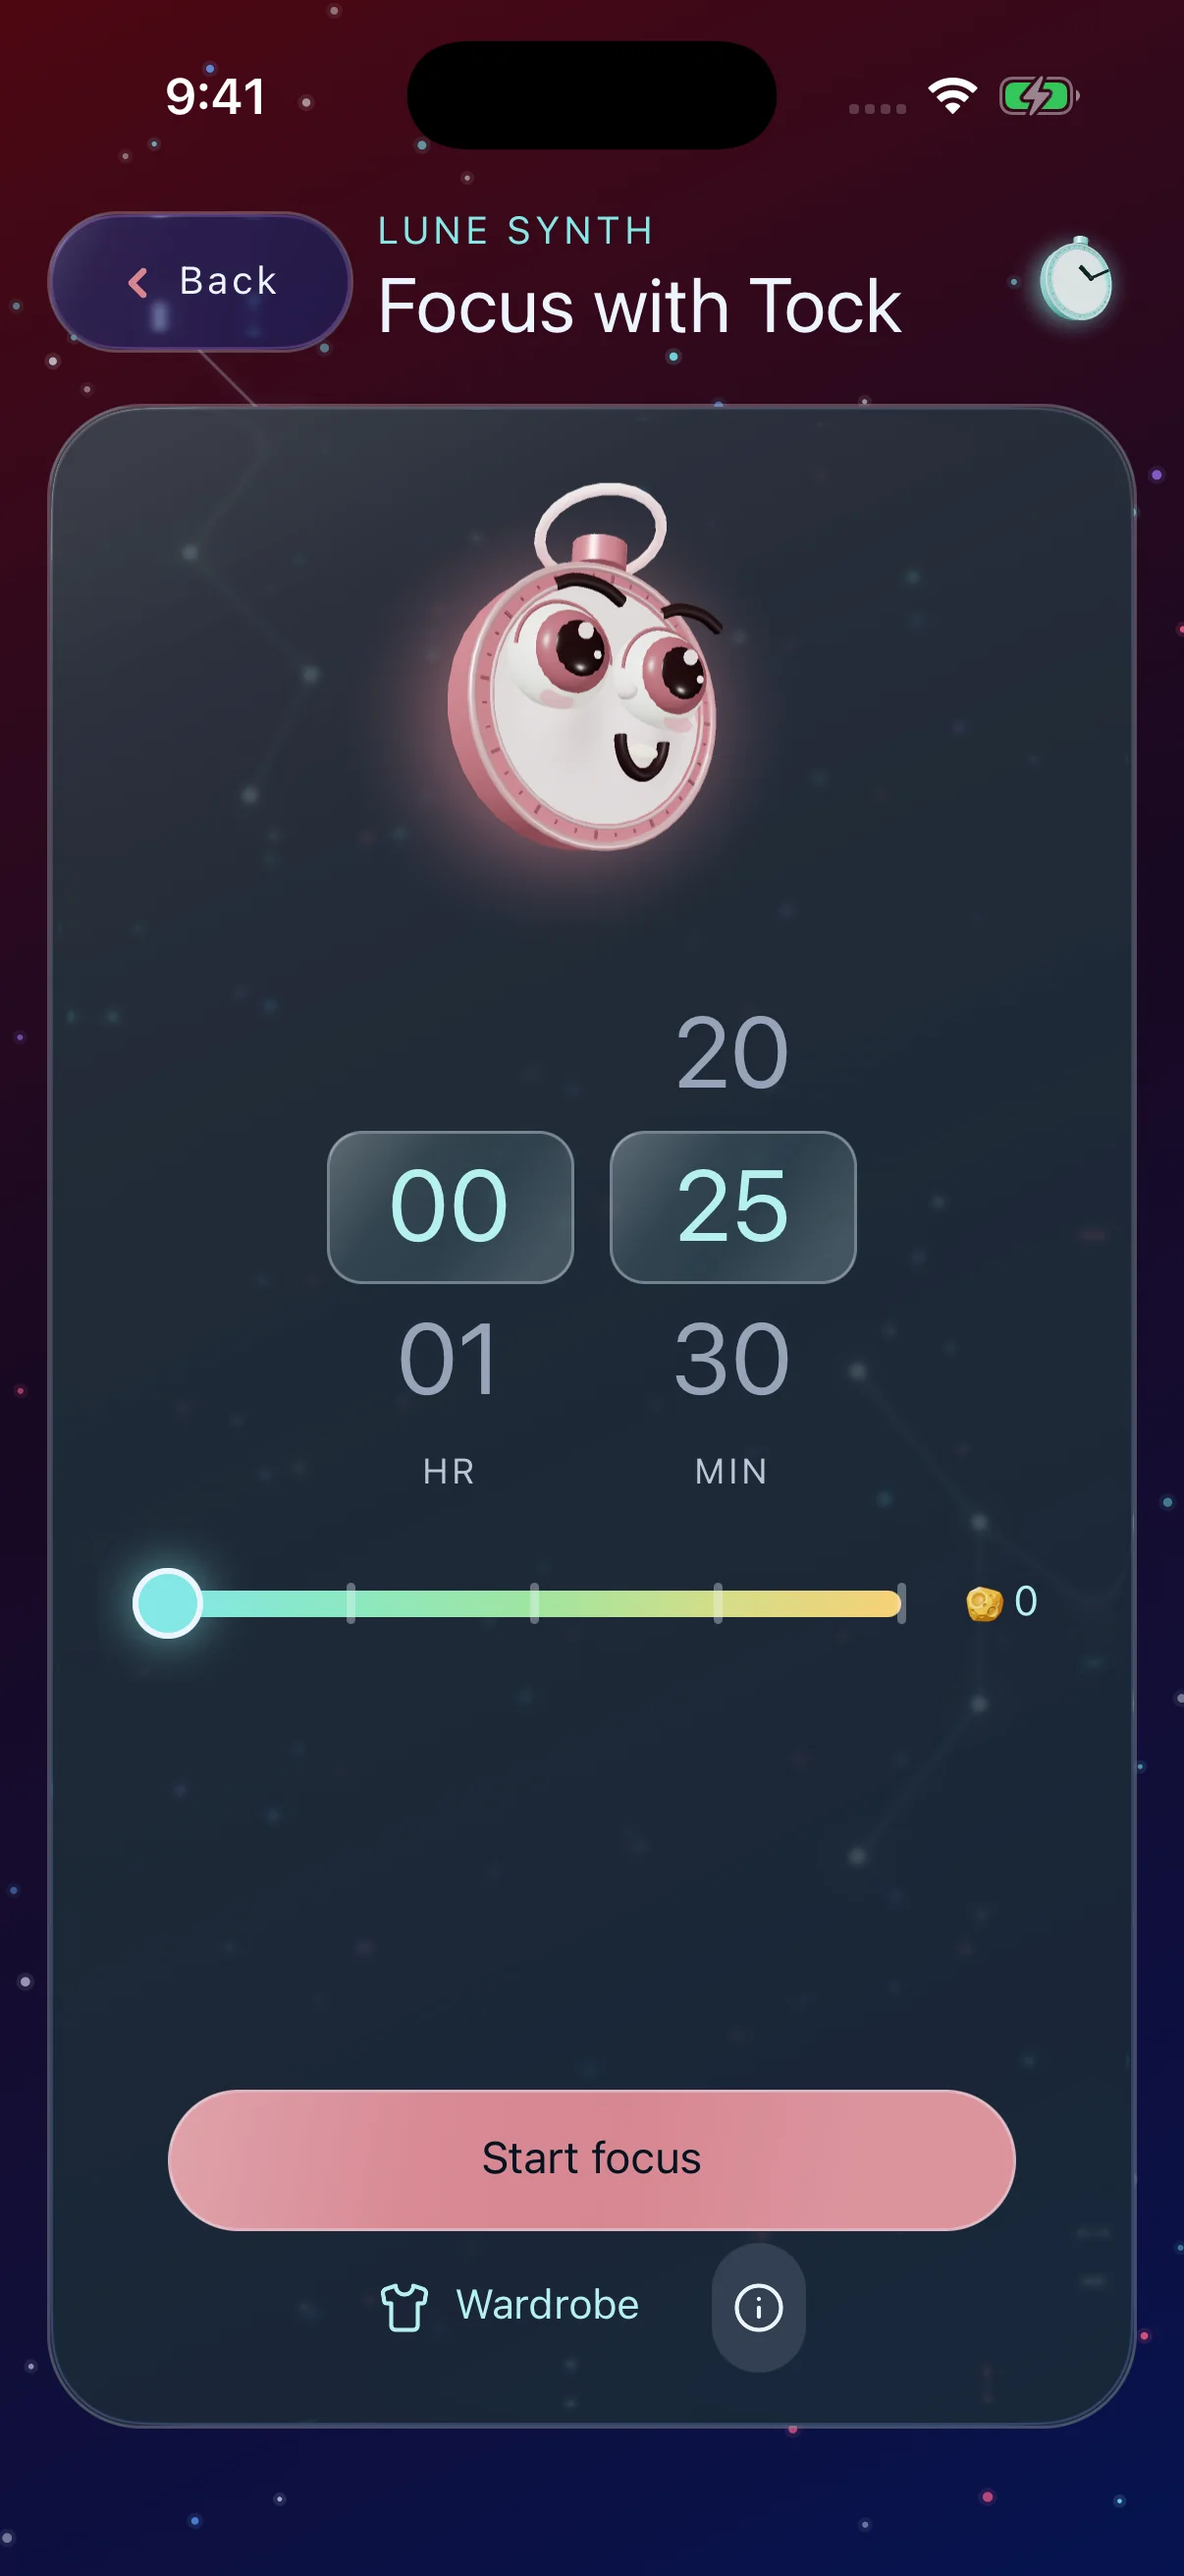
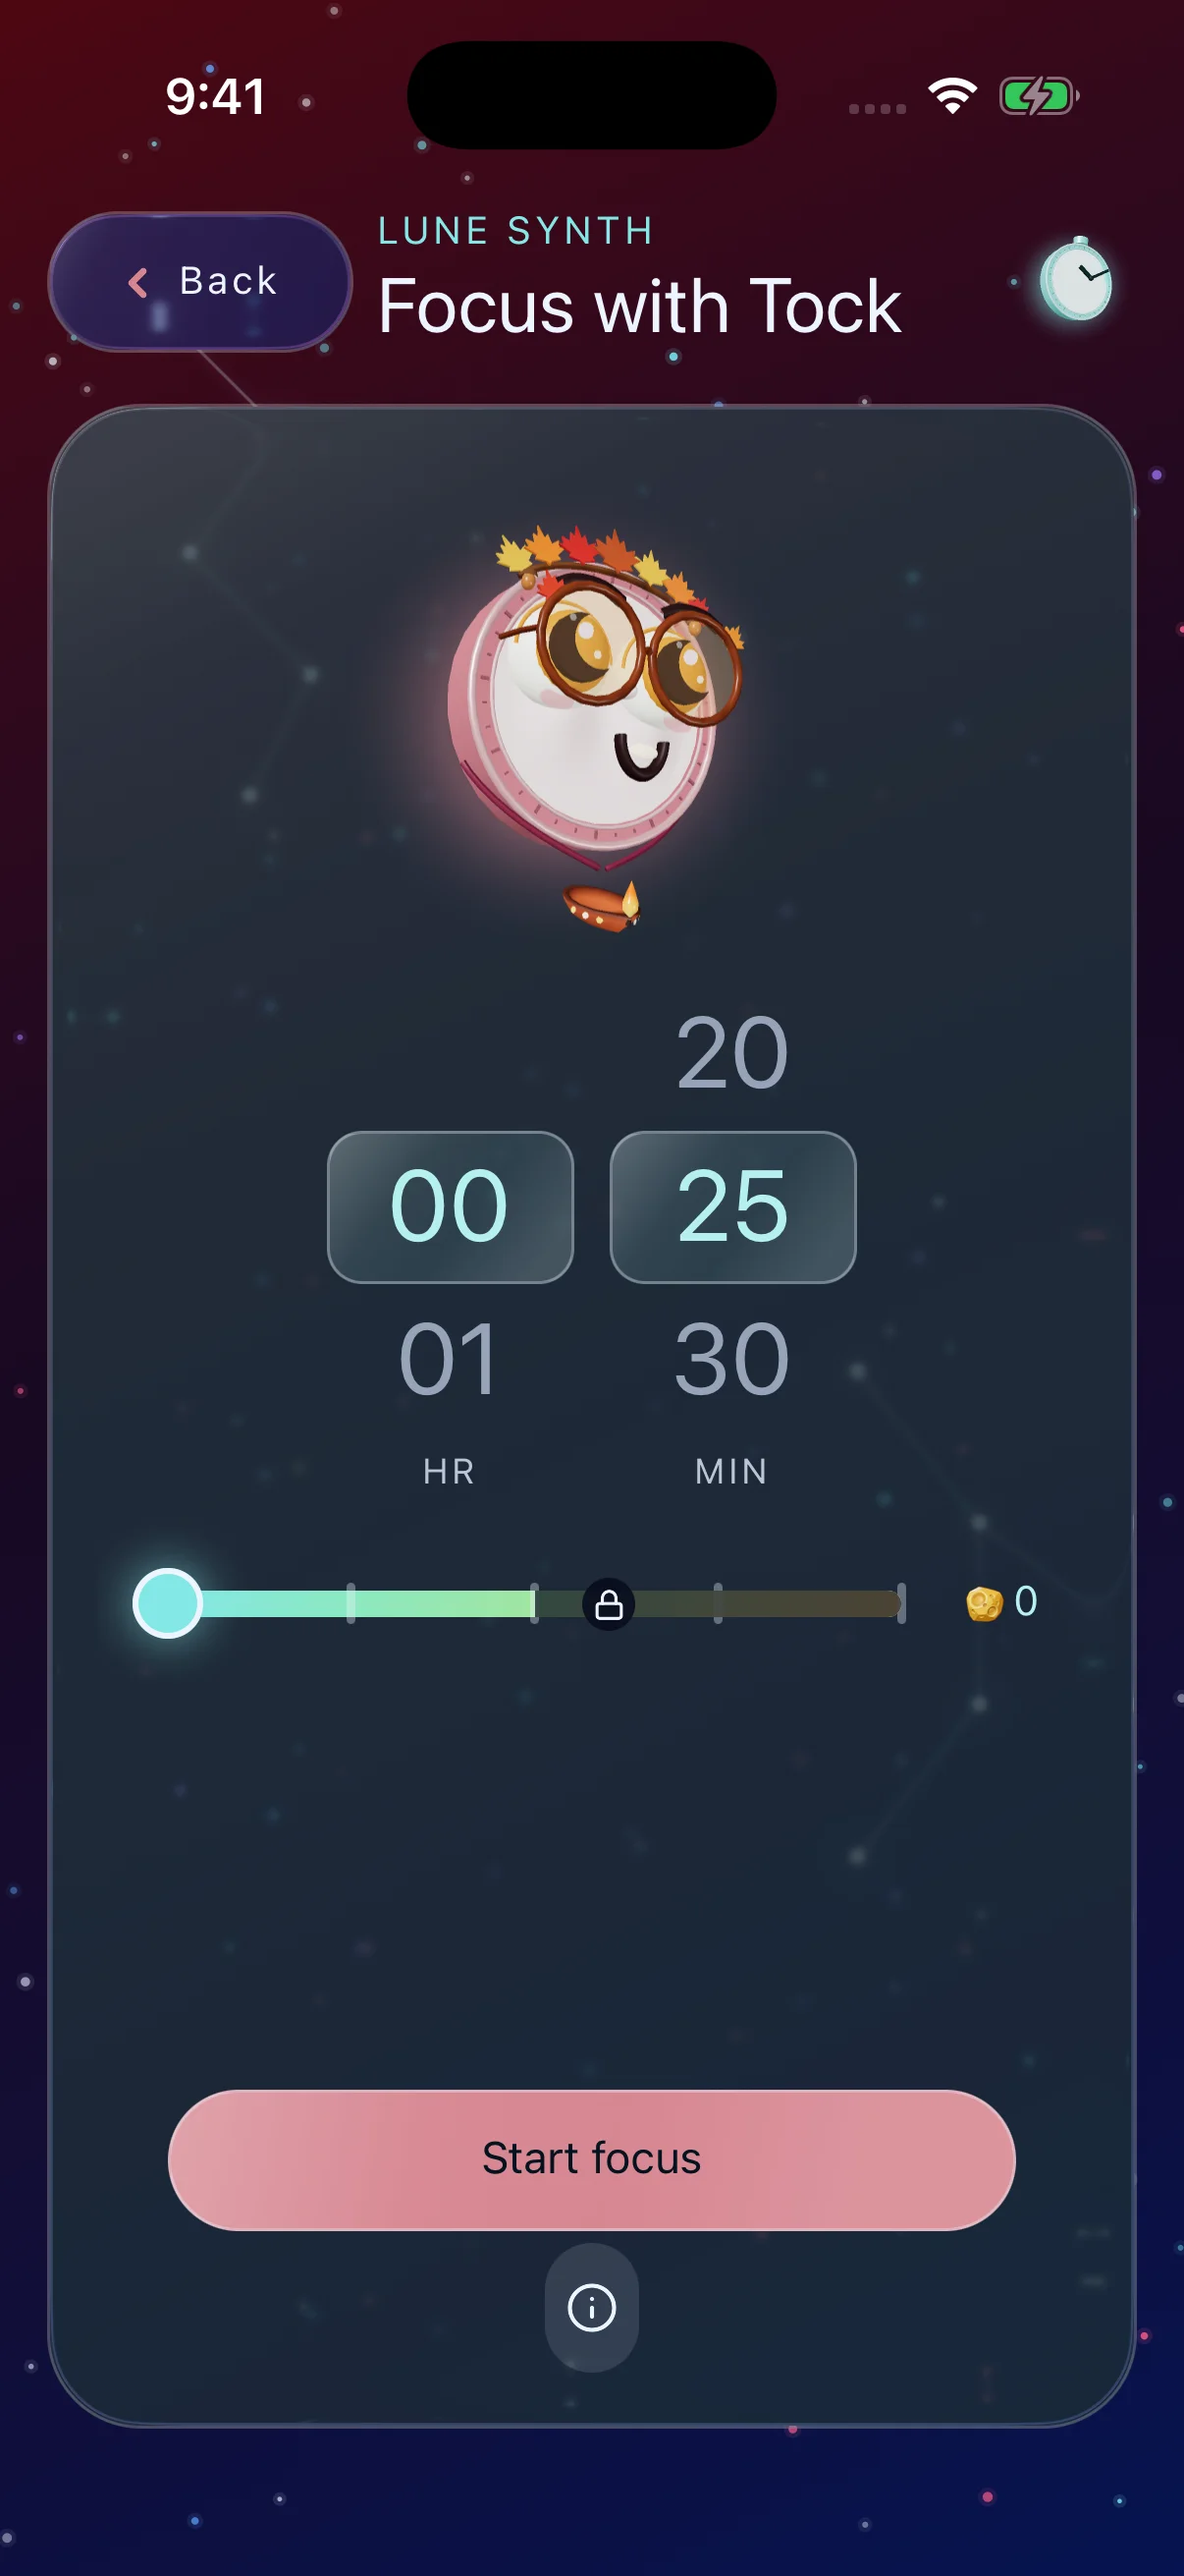
feat(lune-synth): bespoke screenshots for study-habits page
Re-captured the two Tock shots on the for-parents/study-habits page with
the current app (shared Metro, production flags), replacing outfit-less
placeholders:
- parent-habits-focus-timer: the Focus with Tock setup screen with Tock
  wearing the Autumn 2026 harvest set (falling-leaf crown, maple-leaf
  glasses, diya lamp charm), via wardrobe-seasonal-focus.
- parent-habits-tock: the full-screen Tock viewer. The live in-session
  Maestro tap on focus-clock-rotation reproducibly mounted TockViewer
  blank (confirmed across two allowed simulators and a fresh relaunch),
  so this uses the dedicated tock-viewer-fullscreen dev showcase instead
  (the documented path for this exact website-screenshot case), showing
  Tock in the wizard hat / diamond-gem shades / bow tie set.

Alt text updated to describe the outfits shown.

diff --git a/lune-synth/for-parents/study-habits/index.html b/lune-synth/for-parents/study-habits/index.html
@@ -105,7 +105,7 @@
             <div class="phone-mock__screen">
               <picture>
                 <source media="(min-width: 900px)" srcset="/mobile-app-assets/screenshots/applied/family/parent-habits-focus-timer.webp" />
-                <img src="/mobile-app-assets/screenshots/applied/family/parent-habits-focus-timer-mid.webp" alt="Lune Synth Focus with Tock screen: Tock the clock character above a time picker set to 25 minutes and a Start focus button" width="480" height="1043" decoding="async" />
+                <img src="/mobile-app-assets/screenshots/applied/family/parent-habits-focus-timer-mid.webp" alt="Lune Synth Focus with Tock screen: Tock wearing a falling-leaf crown, maple-leaf glasses and a diya charm, above a time picker set to 25 minutes and a Start focus button" width="480" height="1044" decoding="async" />
               </picture>
             </div>
             <div class="phone-shell-buttons" aria-hidden="true">
@@ -147,7 +147,7 @@
           <div class="phone-mock-fluid">
           <div class="phone-mock__frame">
             <div class="phone-mock__screen">
-              <img src="/mobile-app-assets/screenshots/applied/family/parent-habits-tock-mid.webp" srcset="/mobile-app-assets/screenshots/applied/family/parent-habits-tock-mid.webp 480w, /mobile-app-assets/screenshots/applied/family/parent-habits-tock.webp 1206w" sizes="(min-width: 900px) 300px, (min-width: 521px) 45vw, 290px" alt="Lune Synth full-screen view of Tock, the pink clock character, against a starry sky" width="480" height="1043" loading="lazy" decoding="async" />
+              <img src="/mobile-app-assets/screenshots/applied/family/parent-habits-tock-mid.webp" srcset="/mobile-app-assets/screenshots/applied/family/parent-habits-tock-mid.webp 480w, /mobile-app-assets/screenshots/applied/family/parent-habits-tock.webp 1206w" sizes="(min-width: 900px) 300px, (min-width: 521px) 45vw, 290px" alt="Lune Synth full-screen view of Tock, the clock character, wearing a wizard hat, diamond-gem shades and a bow tie against a starry sky" width="480" height="1044" loading="lazy" decoding="async" />
             </div>
             <div class="phone-shell-buttons" aria-hidden="true">
               <span class="phone-shell-buttons__rail phone-shell-buttons__rail--left">
